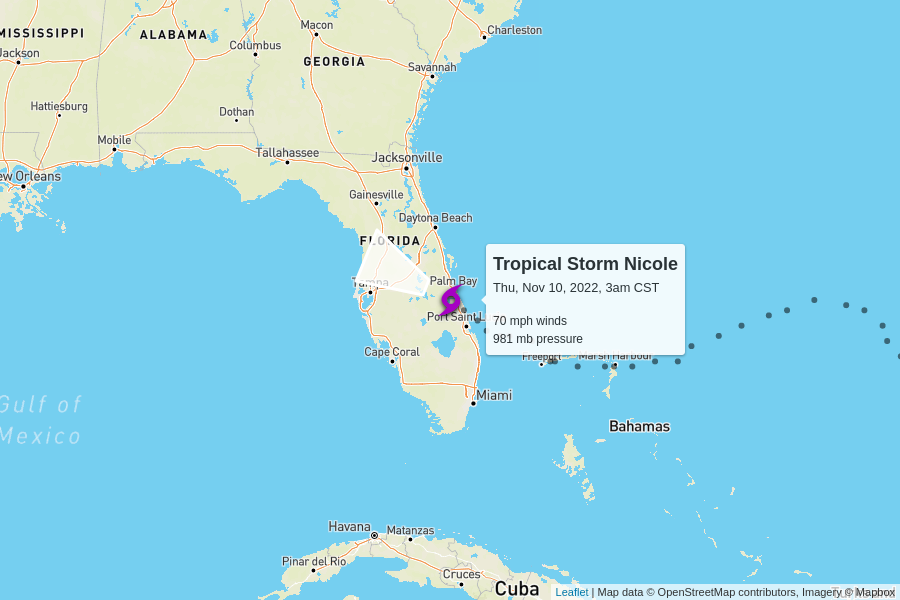
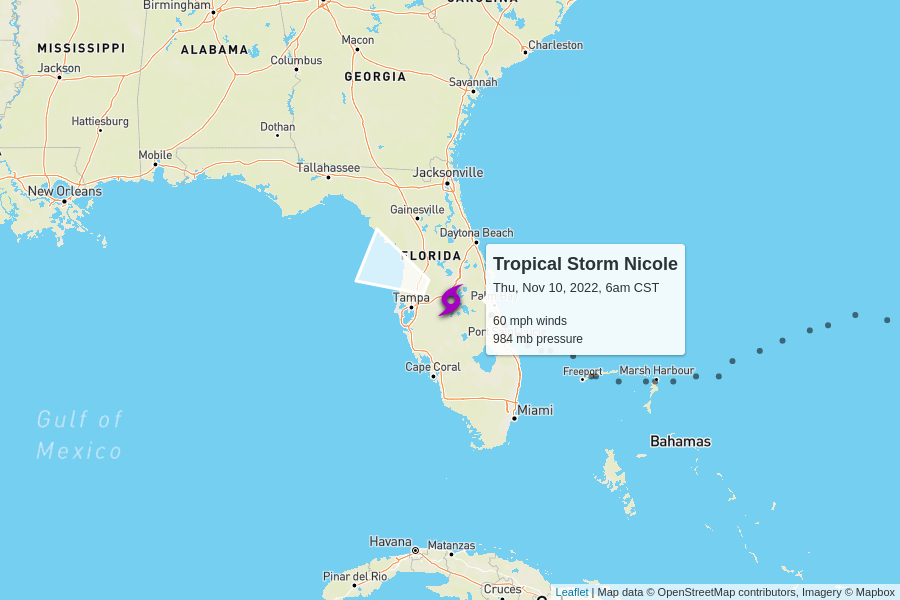
automatic update

diff --git a/docs/index.html b/docs/index.html
@@ -100,7 +100,7 @@
         <td colspan="6" class="storm category-0" >
           <h2>
             Tropical Storm Nicole
-            <p class="updated">last updated <span data-time>2022-11-10T09:00:00.000Z</span></p>
+            <p class="updated">last updated <span data-time>2022-11-10T12:00:00.000Z</span></p>
           </h2>
         </td>
       </tr>
@@ -115,8 +115,8 @@
       </tr>
       <tr>
         <td class="spacer"></td>
-        <td>70 mph</td>
-        <td>981 mb</td>
+        <td>60 mph</td>
+        <td>984 mb</td>
         <td>
           14 mph to the west-northwest
           <br/>
